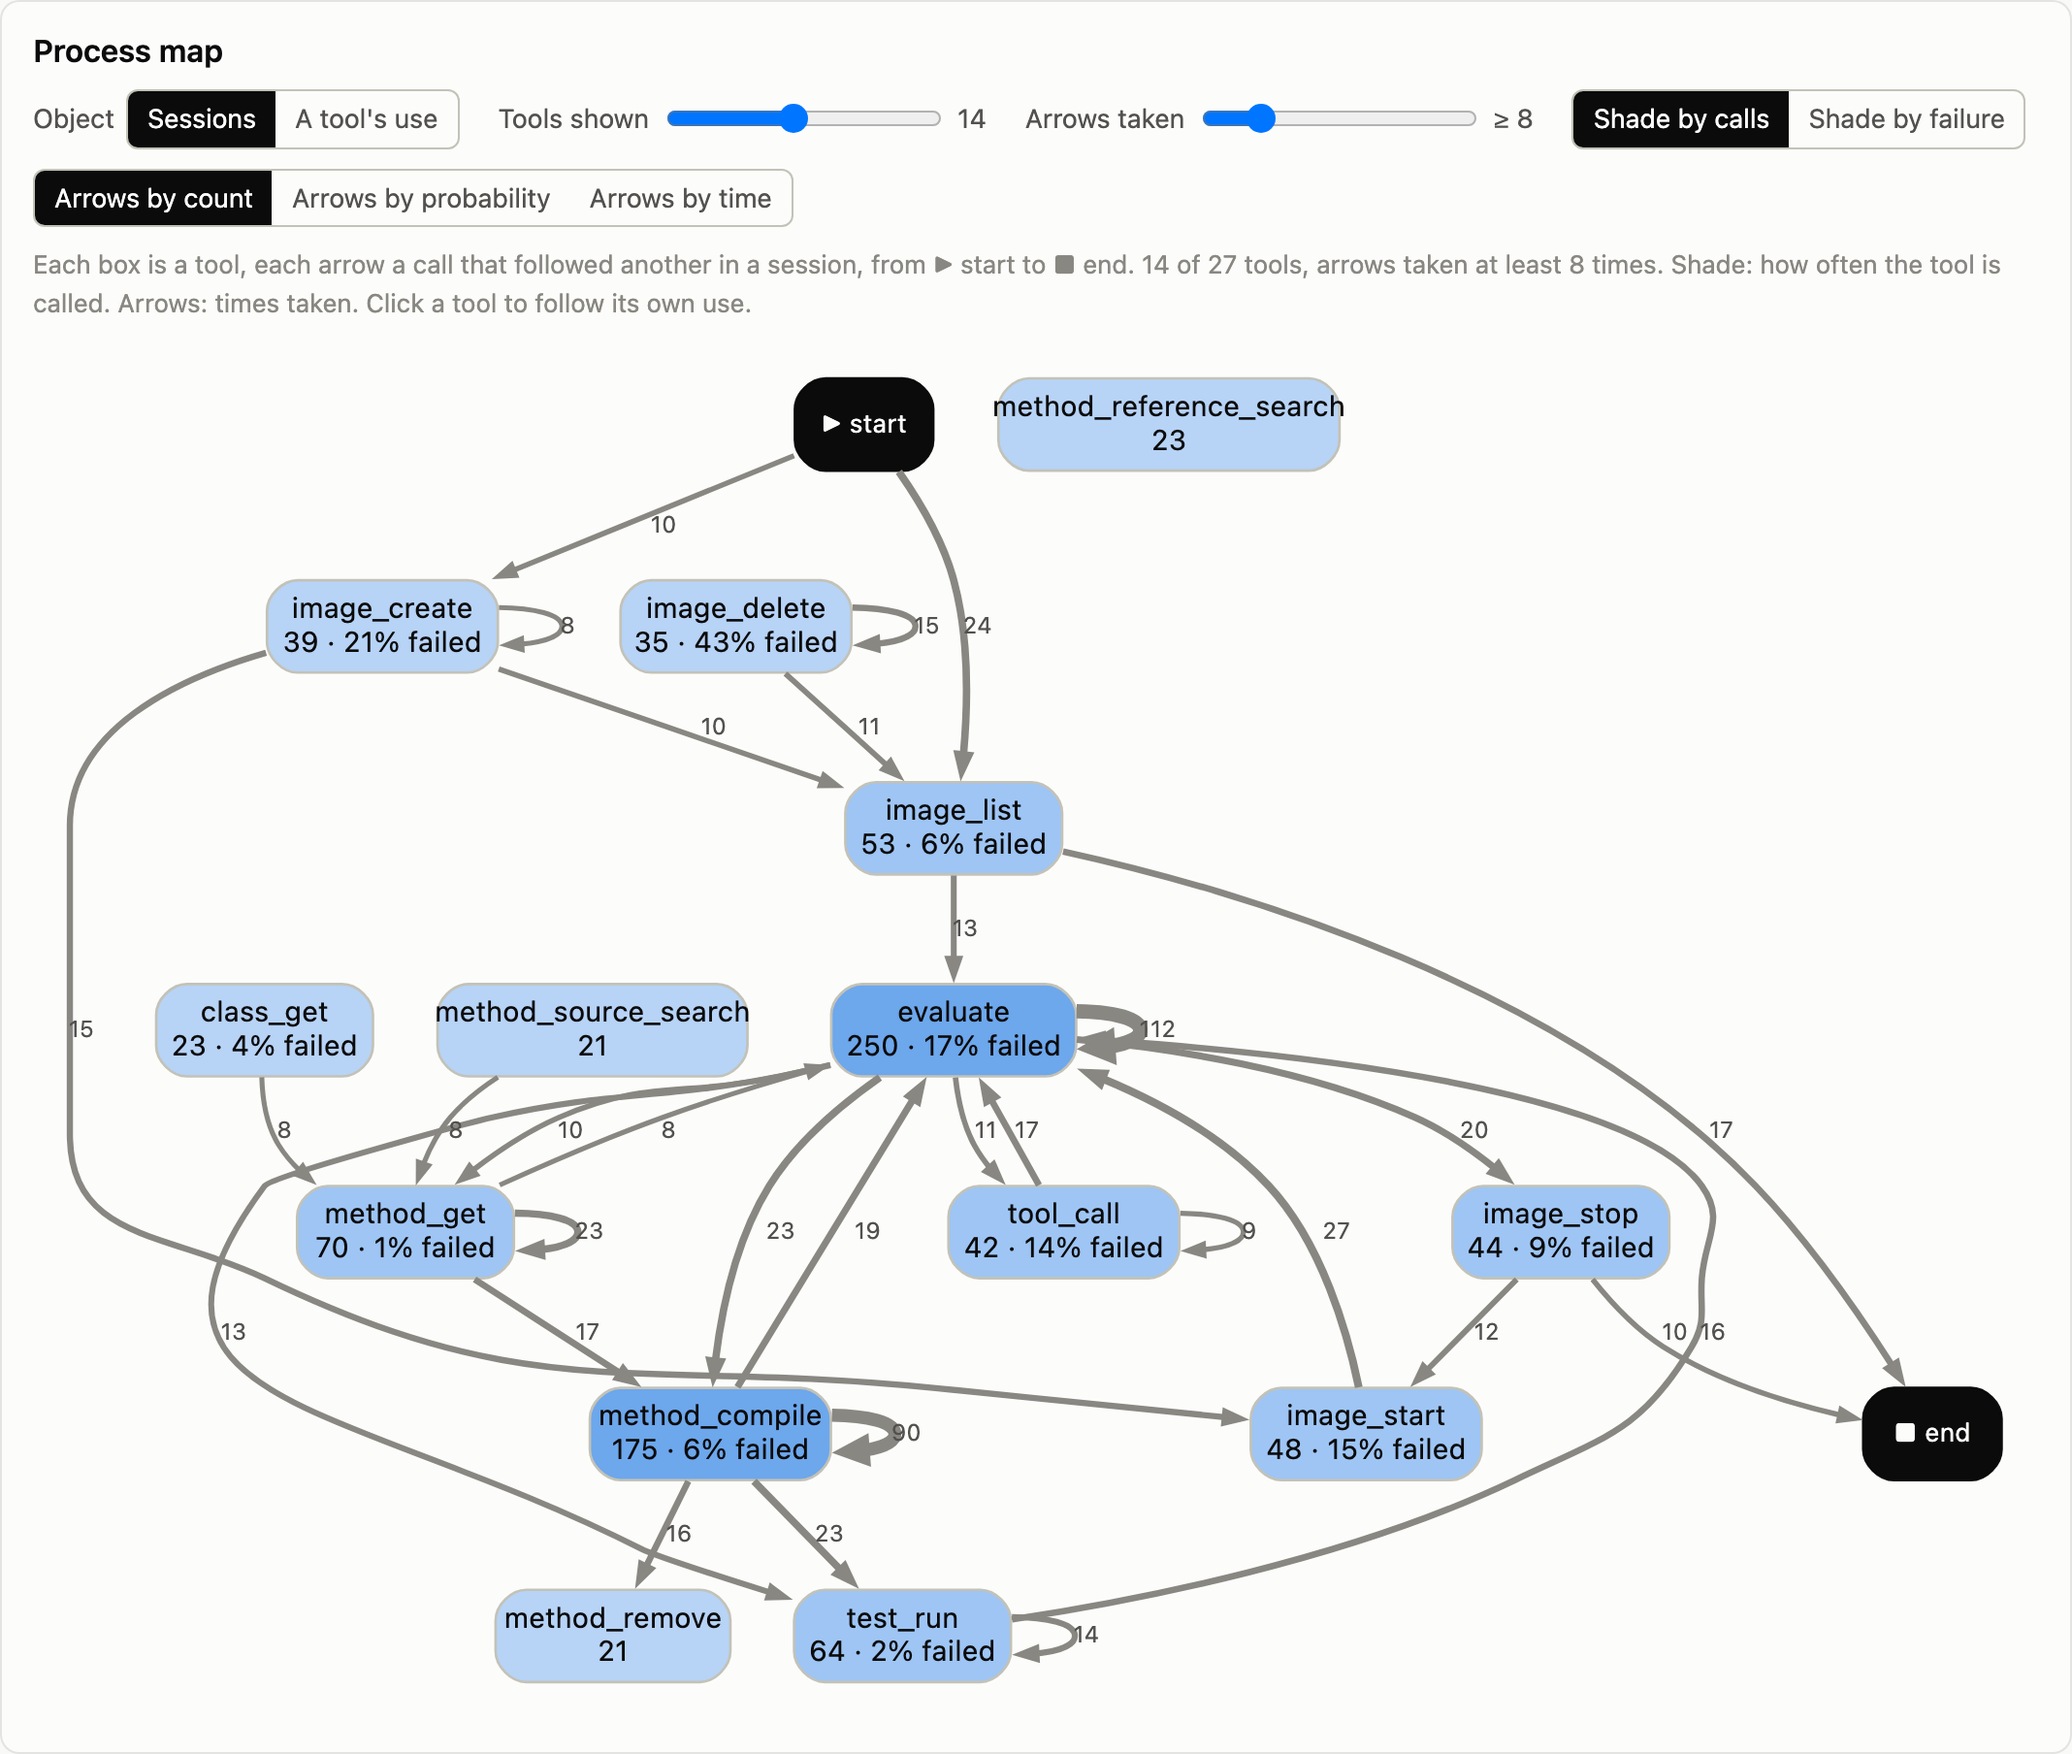
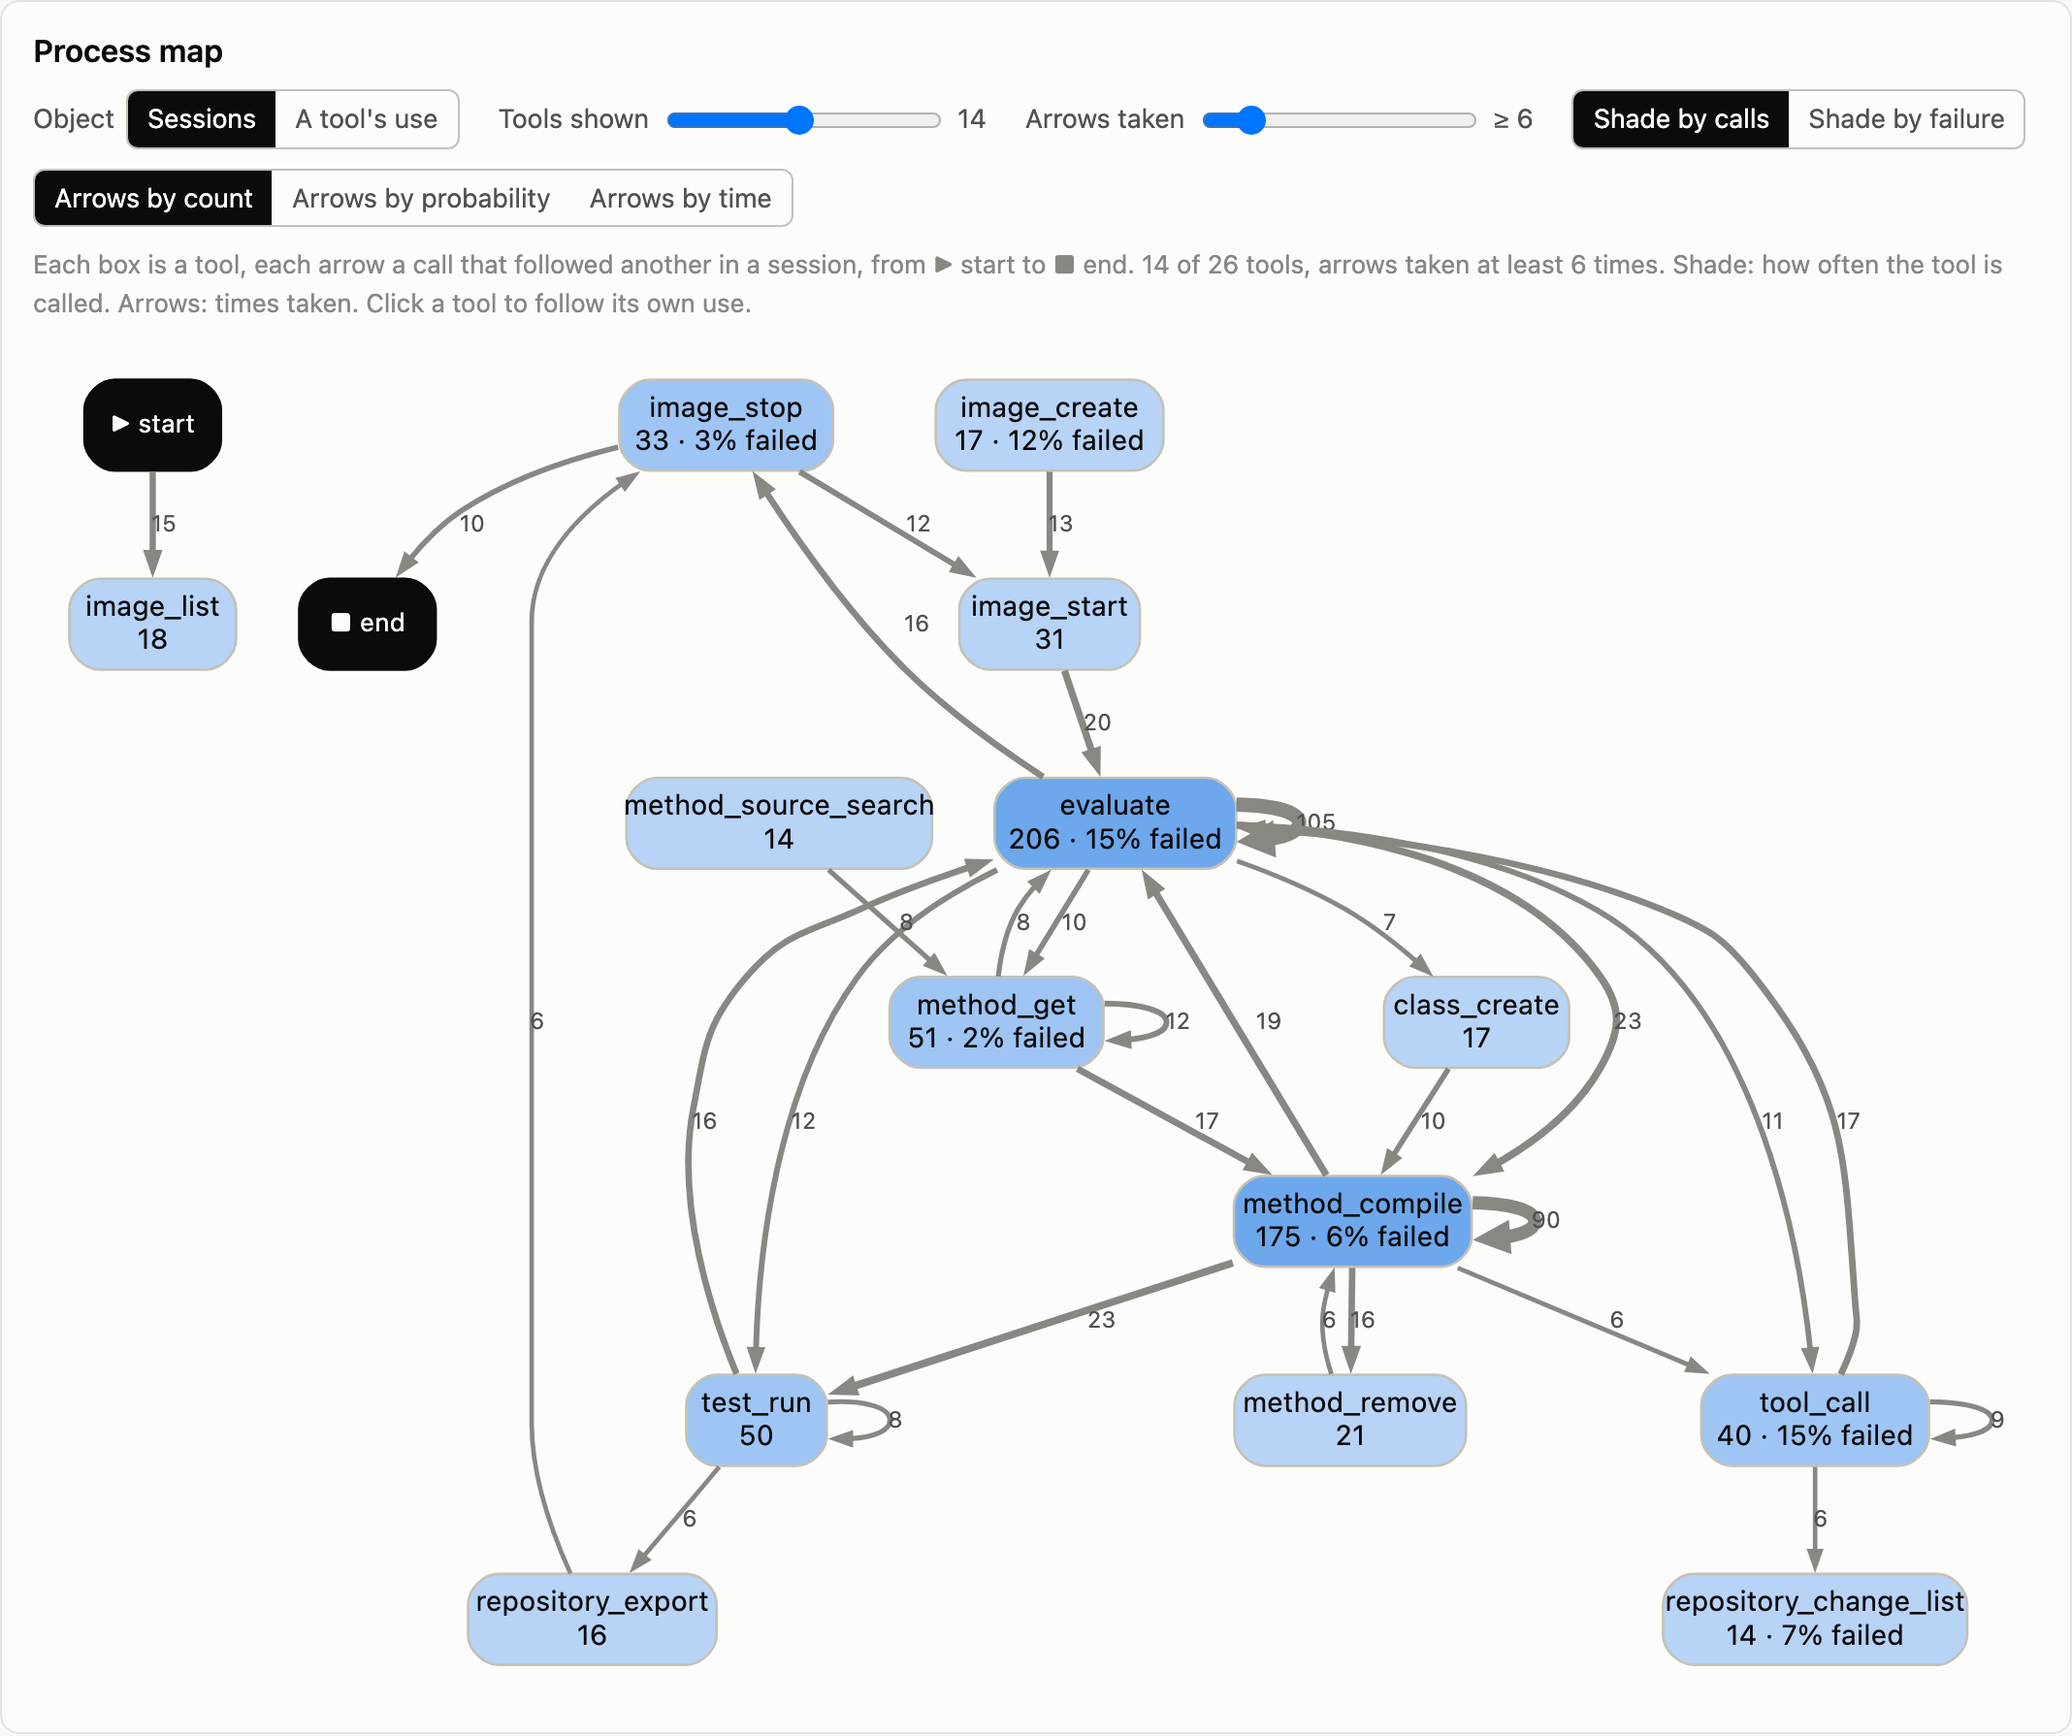
Show only the sessions of agents in the posts' figures
Part of the week's sessions were scripts that check the tools, which made image_delete look like the tool agents fail with most. The figures and their numbers now come from the Claude Code sessions alone, and the funnel plot uses the report's exact binomial limits.

diff --git a/src/content/posts/pharo-agent-analytics.md b/src/content/posts/pharo-agent-analytics.md
@@ -70,13 +70,13 @@ Each analysis is made for all calls, and again for each agent host, each release
 - **How the work flows.** A process map of which call follows which; the most common whole sessions; pairs of calls that follow each other more often than chance would explain, which may show that a tool or a richer answer is missing; and the path from compiling a method to passing tests.
 - **Where the time goes.** The time a tool takes, compared with the time the agent takes after the tool's answer, and the calls that the model asked for together, in one answer.
 
-The figures in this post come from the report on the spans of a few of us at Berger-Levrault, over one week: 1,041 calls in 43 sessions. The process map follows the calls from the start of a session to its end. Agents call `evaluate` the most, often many times in a row, and they compile methods in long runs too:
+The figures in this post come from the report on the spans of a few of us at Berger-Levrault, over one week. The report shows the calls of each agent host apart, and these are Claude Code's: 774 calls in 22 sessions. The other sessions were scripts that check the tools, not agents at work. The process map follows the calls from the start of a session to its end. Agents call `evaluate` the most, often many times in a row, and they compile methods in long runs too:
 
-![The process map: each box is a tool, with its calls and the share that failed, and each arrow a call that followed another, with how many times; the 14 most used of 27 tools, with evaluate called 250 times](../../assets/posts/pharo-agent-analytics/process-map.png)
+![The process map: each box is a tool, with its calls and the share that failed, and each arrow a call that followed another, with how many times; the 14 most used of 26 tools, with evaluate called 206 times](../../assets/posts/pharo-agent-analytics/process-map.png)
 
-After a failure, the report follows each failed call to what the agent did next, then to whether the tool worked later in the session. Of the 106 failed calls, the tool worked later for 77:
+After a failure, the report follows each failed call to what the agent did next, then to whether the tool worked later in the session. Of the 55 failed calls, the agent most often made the same call again, and the tool worked later for 52:
 
-![From failure to outcome: the 106 failed calls by kind of error, then what the agent did next, most often the same call again, another tool, or the same tool with other arguments, then whether the tool worked later, 77 times, or never again, 29 times](../../assets/posts/pharo-agent-analytics/recovery.png)
+![From failure to outcome: the 55 failed calls by kind of error, most of them domain errors, then what the agent did next, most often the same call again, then another tool or the same tool with other arguments, then whether the tool worked later, 52 times, or never again, 3 times](../../assets/posts/pharo-agent-analytics/recovery.png)
 
 ## Markov models
 
@@ -86,9 +86,9 @@ A process map counts which call follows which. It is a first-order [Markov chain
 - **After a failure.** A chain over each tool and whether it worked or failed, which stops when the tool works or when the session ends. It gives the chance that a failed tool works before the session ends, and how many calls that takes [@grinstead1997, ch. 11]. Compared with what really happened, it shows when more than the last call matters.
 - **Phases.** A [hidden Markov model](https://en.wikipedia.org/wiki/Hidden_Markov_model) finds phases in the sessions from the tools called, between 1 and 6 of them [@rabiner1989]. BIC and sessions kept apart for testing choose how many [@celeux2008]. The spans do not name the phases: the report shows which tools each phase uses, and when it comes in a session.
 
-On these sessions, BIC chooses three phases and the sessions kept apart choose four, so the report warns that the fourth may not hold on more sessions. Named from their tools, the four phases still read clearly: one manages the images, one reads code, one runs code with `evaluate` and tests, and one compiles methods.
+On these sessions, BIC chooses two phases and the sessions kept apart choose five, so the report warns that the three more may not hold on more sessions. Named from their tools, the five phases still read clearly: one reads code, one starts images, one manages them, one runs code with `evaluate` and tests, and one compiles methods.
 
-![The phases of a session: where each of four phases comes in a session, the chance that each phase follows another, and the tools of each phase, under a warning that the data are few](../../assets/posts/pharo-agent-analytics/phases.png)
+![The phases of a session: where each of five phases comes in a session, the chance that each phase follows another, and the tools of each phase, under a warning that the data are few](../../assets/posts/pharo-agent-analytics/phases.png)
 
 ## Keeping the numbers honest
 
@@ -101,9 +101,9 @@ A number here shows where to look; it does not decide anything. The spans say wh
 - **A second number.** Better descriptions of MCP tools raised task success by a median of 5.85 points, but took 67% more steps [@hasan2026]. A success rate alone would have hidden that cost, so each number comes with another one that would show if it is being gamed. Mixing easy and hard tasks also misleads: longer runs seem to fail more, but the opposite is true once the difficulty of the task is taken into account [@mehtiyev2026].
 - **Saying when the data are too few.** A view warns when its shares rest on fewer than 39 observations: below that, a 95% Wilson interval around one half is more than 15 points wide on each side. It also warns when the criteria that choose a model disagree. The report marks each view that has a warning, and its sidebar can hide those views.
 
-On these sessions, the funnel plot shows only two tools that fail more often than chance would explain: `image_delete` and `evaluate`. A tool that failed in two of the three sessions that used it stays inside the funnel: three sessions are too few to tell.
+On these sessions, the funnel plot shows two tools that fail more often than chance would explain: `evaluate` and `tool_call`. A tool that failed in its only session stays inside the funnel: one session is too few to tell.
 
-![Failure against use: each tool as a dot, the sessions that used it against the share in which it failed, inside a funnel that narrows as use grows; image_delete and evaluate are above it](../../assets/posts/pharo-agent-analytics/tools.png)
+![Failure against use: each tool as a dot, the sessions that used it against the share in which it failed, inside a funnel that narrows as use grows; evaluate and tool_call are above it](../../assets/posts/pharo-agent-analytics/tools.png)
 
 ## As much as the spans hold
 

diff --git a/src/content/posts/pharo-tools-observability.md b/src/content/posts/pharo-tools-observability.md
@@ -58,23 +58,23 @@ PLexus also records a span when it creates, starts, stops or deletes an image. A
 
 ### In a dashboard
 
-Any backend can count these attributes and draw them. Here they are in a [Kibana](https://www.elastic.co/kibana) dashboard, over one week of spans from a few of us at Berger-Levrault, working in Pharo with coding agents. Each call is counted once, from the span of the side that answered it.
+Any backend can count these attributes and draw them. Here they are in a [Kibana](https://www.elastic.co/kibana) dashboard, over one week of the sessions of a few of us at Berger-Levrault, working in Pharo with Claude Code. Each call is counted once, from the span of the side that answered it.
 
 The tool's name, how the call ended, how long it took and the size of its answer make a table of the tools. *Advertised* is whether the server lists the tool for the agent, rather than the agent having to search for it. The sizes here are rounded to a power of two:
 
-![Each tool: the tools by number of calls, evaluate first with 250, with the share of calls advertised, failed and cut to fit, the median and 95th percentile of their duration, and the median size of their answer](../../assets/posts/pharo-tools-observability/per-tool.png)
+![Each tool: the tools by number of calls, evaluate first with 206, with the share of calls advertised, failed and cut to fit, the median and 95th percentile of their duration, and the median size of their answer](../../assets/posts/pharo-tools-observability/per-tool.png)
 
 When a call fails, its span says how. Most failed calls here are *domain* errors: the tool refused what was asked, for example because a class does not exist. A span also names the class of the exception behind an error: the nearest class in Pharo's or MCP's own packages, so the classes of your own project stay out.
 
-![How calls failed in the images: by kind, 48 domain errors, 4 calls whose arguments broke the input schema and 2 exceptions that escaped the tool; by exception, MessageNotUnderstood first, 19 times, then MCPCommandError, MCPInvalidToolInput, OCUndeclaredVariableNotice and five more](../../assets/posts/pharo-tools-observability/failed-calls.png)
+![How calls failed in the images: by kind, 45 domain errors, 4 calls whose arguments broke the input schema and 2 exceptions that escaped the tool; by exception, MessageNotUnderstood first, 18 times, then MCPCommandError, MCPInvalidToolInput, OCUndeclaredVariableNotice and five more](../../assets/posts/pharo-tools-observability/failed-calls.png)
 
 The names of the arguments a tool does not take show where agents guess wrong:
 
-![Arguments a tool does not take: class_get called twice with class, and image_create, image_list, image_stop and method_get each once with an argument they do not have](../../assets/posts/pharo-tools-observability/unknown-arguments.png)
+![Arguments a tool does not take: class_get called twice with class, and image_stop and method_get each once with an argument they do not have](../../assets/posts/pharo-tools-observability/unknown-arguments.png)
 
 And since each span says which release of MCP or PLexus made it, and on which system, you see which releases are in use:
 
-![Sessions by version and by system: PLexus 0.22.0 in most sessions, then PLexus 0.24.0, MCP 4.4.0 and 4.6.0, and older releases; almost every session on macOS (darwin), one on Linux](../../assets/posts/pharo-tools-observability/versions-systems.png)
+![Sessions by version and by system: PLexus 0.22.0 in most sessions, then MCP 4.4.0, PLexus 0.24.0, and older releases; every session on macOS (darwin)](../../assets/posts/pharo-tools-observability/versions-systems.png)
 
 ## Built on OpenTelemetry's conventions for AI
 
